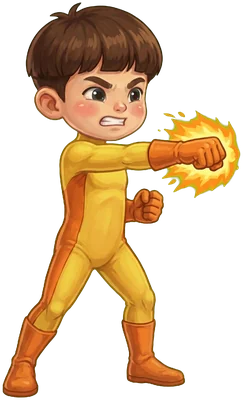
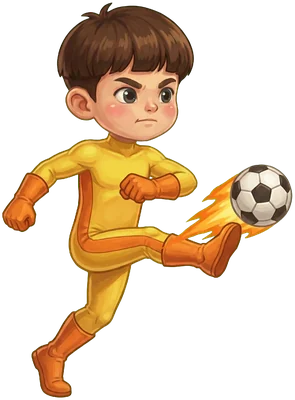
Make Yunchan the bug collector and Yungeon the soccer player
The family corrected the cousins' hobbies: Yunchan (10) collects bugs and
Yungeon (7) plays soccer.

Cards: Yunchan becomes a wood card with an insect-guide trait (ignores
weakness) and net swing, firefly light and rhinoceros-beetle charge.
Yungeon becomes a fire card with goalkeeper gloves (blocks the first
hit) and a feint dribble, header and fire shot. The card art and all ten
quiz questions were redrawn and rewritten; balance numbers and effects
are unchanged. Element and sound-material test counts follow the swap.

Multiverse: new attack poses (Yunchan swings a glowing bug net, Yungeon
volleys a fiery ball) with their anchors. The two replaced sprites load
with ?v=2 so devices do not keep the old ones in the long-lived media
cache. Cache v148.

diff --git a/cards/js/story-gates.js b/cards/js/story-gates.js
@@ -816,41 +816,40 @@
       "윤찬이는 몇 살인가요?",
       [["ten", "열 살"], ["seven", "일곱 살"], ["five", "다섯 살"]], "ten",
       ["가족 확인 2026-09-24"]),
-    question("yunchan-sport", "yunchan",
-      "윤찬 카드에서 윤찬이가 하고 있는 운동은?",
-      [["soccer", "축구"], ["swim", "수영"], ["taekwondo", "태권도"]], "soccer",
-      ["카드: 윤찬"]),
-    question("yunchan-pass", "yunchan",
-      "윤찬이의 「헤딩 패스」를 쓰면 무엇을 돌려받나요?",
+    question("yunchan-hobby", "yunchan",
+      "윤찬이가 제일 좋아하는 놀이는?",
+      [["bugs", "벌레 채집"], ["soccer", "축구"], ["piano", "피아노"]], "bugs",
+      ["가족 확인 2026-09-24"]),
+    question("yunchan-light", "yunchan",
+      "윤찬이의 「반딧불이 불빛」을 쓰면 무엇을 돌려받나요?",
       [["star", "별사탕 1개"], ["hp", "체력 20"], ["turn", "한 턴 더"]], "star",
       ["카드: 윤찬"]),
-    question("yunchan-captain", "yunchan",
-      "윤찬이의 특성 「주장 완장」은 무엇을 하나요?",
+    question("yunchan-book", "yunchan",
+      "윤찬이의 특성 「곤충 도감」은 무엇을 하나요?",
       [["noweak", "약점 추가 피해를 받지 않아요"], ["heal", "매턴 체력을 채워요"], ["double", "피해가 두 배가 돼요"]], "noweak",
       ["카드: 윤찬"]),
     question("yunchan-big-move", "yunchan",
       "윤찬이가 별사탕 3개로 쓰는 큰 기술은?",
-      [["shot", "번개 슛"], ["dribble", "번개 드리블"], ["header", "헤딩 패스"]], "shot",
+      [["beetle", "장수풍뎅이 돌진"], ["net", "잠자리채 휙"], ["firefly", "반딧불이 불빛"]], "beetle",
       ["카드: 윤찬"]),
     question("yungeon-age", "yungeon",
       "윤건이는 몇 살인가요?",
       [["seven", "일곱 살"], ["ten", "열 살"], ["five", "다섯 살"]], "seven",
       ["가족 확인 2026-09-24"]),
-    question("yungeon-friend", "yungeon",
-      "윤건 카드에서 윤건이가 동굴에서 찾은 친구는?",
-      [["dino", "아기 공룡"], ["cat", "아기 고양이"], ["dragon", "용"]], "dino",
-      ["카드: 윤건"]),
-    question("yungeon-flash", "yungeon",
-      "윤건이의 「손전등 번쩍」을 맞으면 상대는 어떻게 되나요?",
+    question("yungeon-sport", "yungeon",
+      "윤건 카드에서 윤건이가 하는 운동은?",
+      [["soccer", "축구"], ["swim", "수영"], ["bugs", "벌레 채집"]], "soccer",
+      ["가족 확인 2026-09-24"]),
+    question("yungeon-dribble", "yungeon",
+      "윤건이의 「헛다리 드리블」에 속은 상대는 어떻게 되나요?",
       [["weak", "다음 공격 피해가 20 줄어요"], ["sleep", "잠이 들어요"], ["star", "별사탕을 잃어요"]], "weak",
       ["카드: 윤건"]),
-    question("yungeon-egg", "yungeon",
-      "윤건이의 특성 「공룡 알 방패」는 무엇을 막나요?",
+    question("yungeon-gloves", "yungeon",
+      "윤건이의 특성 「골키퍼 장갑」은 무엇을 막나요?",
       [["first", "처음 받는 공격 한 번"], ["all", "모든 공격"], ["none", "아무것도 못 막아요"]], "first",
       ["카드: 윤건"]),
-
-    question("yungeon-roar", "yungeon",
-      "윤건이의 「티라노 으르렁」을 맞은 상대는 어떻게 되나요?",
+    question("yungeon-fire-shot", "yungeon",
+      "윤건이의 「불꽃 슛」을 맞은 상대는 어떻게 되나요?",
       [["skip", "다음 턴에 기술을 못 써요"], ["heal", "체력이 늘어요"], ["fast", "더 빨라져요"]], "skip",
       ["카드: 윤건"]),
 

diff --git a/multiverse/data.js b/multiverse/data.js
@@ -35,7 +35,7 @@
       poses: {
         idle:    { src: "art/yunchan-idle.webp",    head: [0.550, 0.250], chest: [0.500, 0.430], back: [0.200, 0.370], hand: [0.890, 0.330] },
         run:     { src: "art/yunchan-run.webp",     head: [0.640, 0.250], chest: [0.500, 0.430], back: [0.130, 0.360], hand: [0.920, 0.375] },
-        attack:  { src: "art/yunchan-attack.webp",  head: [0.390, 0.250], chest: [0.350, 0.430], back: [0.150, 0.360], hand: [0.820, 0.360] },
+        attack:  { src: "art/yunchan-attack.webp?v=2",  head: [0.460, 0.250], chest: [0.450, 0.440], back: [0.290, 0.370], hand: [0.680, 0.400] },
         special: { src: "art/yunchan-special.webp", head: [0.500, 0.240], chest: [0.500, 0.460], back: [0.320, 0.370], hand: [0.890, 0.140] },
         hurt:    { src: "art/yunchan-hurt.webp",    head: [0.420, 0.230], chest: [0.480, 0.430], back: [0.220, 0.360], hand: [0.690, 0.150] }
       } },
@@ -51,7 +51,7 @@
       poses: {
         idle:    { src: "art/yungeon-idle.webp",    head: [0.540, 0.240], chest: [0.500, 0.460], back: [0.260, 0.380], hand: [0.890, 0.360] },
         run:     { src: "art/yungeon-run.webp",     head: [0.570, 0.230], chest: [0.500, 0.460], back: [0.210, 0.380], hand: [0.910, 0.420] },
-        attack:  { src: "art/yungeon-attack.webp",  head: [0.420, 0.230], chest: [0.340, 0.460], back: [0.160, 0.380], hand: [0.860, 0.360] },
+        attack:  { src: "art/yungeon-attack.webp?v=2",  head: [0.480, 0.310], chest: [0.340, 0.500], back: [0.160, 0.470], hand: [0.470, 0.460] },
         special: { src: "art/yungeon-special.webp", head: [0.500, 0.240], chest: [0.500, 0.480], back: [0.380, 0.400], hand: [0.870, 0.160] },
         hurt:    { src: "art/yungeon-hurt.webp",    head: [0.440, 0.240], chest: [0.490, 0.460], back: [0.220, 0.390], hand: [0.770, 0.200] }
       } },

diff --git a/sw.js b/sw.js
@@ -1,7 +1,7 @@
 "use strict";
 
 // Advance this generation whenever a shared shell or optional game's immutable assets change.
-const CACHE_VERSION = "v147";
+const CACHE_VERSION = "v148";
 const CACHE_PREFIX = "adventure-box-";
 // 큰 그림과 소리(삼국지 배경 200MB+, 저장한 이야기 오디오)는 배포 번호와 따로 둔다.
 // 배포마다 이 캐시를 버리면 기기가 236MB를 다시 받고, "여행 전에 이야기 저장"도 지워졌다.
@@ -24,7 +24,7 @@ const CORE_SHELL = [
   "./multiverse/",
   "./multiverse/index.html",
   "./multiverse/style.css?v=2",
-  "./multiverse/data.js?v=2",
+  "./multiverse/data.js?v=3",
   "./multiverse/save.js?v=2",
   "./multiverse/game.js?v=2",
   "./multiverse/art/cover.webp",
@@ -603,12 +603,12 @@ const PRINCESS_STUDIO_ASSETS = Object.entries({
   `./princess/assets/studio-v3/${category}-${id}.${category === "bg" ? "jpg" : "webp"}`
 ));
 const OPTIONAL_SHELL = [
-  "./multiverse/art/yunchan-attack.webp",
+  "./multiverse/art/yunchan-attack.webp?v=2",
   "./multiverse/art/yunchan-hurt.webp",
   "./multiverse/art/yunchan-idle.webp",
   "./multiverse/art/yunchan-run.webp",
   "./multiverse/art/yunchan-special.webp",
-  "./multiverse/art/yungeon-attack.webp",
+  "./multiverse/art/yungeon-attack.webp?v=2",
   "./multiverse/art/yungeon-hurt.webp",
   "./multiverse/art/yungeon-idle.webp",
   "./multiverse/art/yungeon-run.webp",

diff --git a/cards/tests/pwa.test.js b/cards/tests/pwa.test.js
@@ -114,9 +114,9 @@ test("all story episode mp3 files match the service worker fallback list", () =>
   }
 });
 
-test("cache generation v147 preserves exact v68 card assets and canonical navigation aliases", () => {
-  assert.equal(sw.CACHE_VERSION, "v147");
-  assert.match(sw.STATIC_CACHE, /^adventure-box-v147-/);
+test("cache generation v148 preserves exact v68 card assets and canonical navigation aliases", () => {
+  assert.equal(sw.CACHE_VERSION, "v148");
+  assert.match(sw.STATIC_CACHE, /^adventure-box-v148-/);
   const studioImages = fs.readdirSync(path.join(siteRoot, "princess/assets/studio-v3")).filter(name => /\.(webp|jpg)$/.test(name));
   assert.equal(studioImages.length, 95);
   for (const name of studioImages) assert.ok(sw.OPTIONAL_SHELL.includes("./princess/assets/studio-v3/" + name), name);
@@ -407,7 +407,7 @@ test("Avengers migrates the legacy child scope before its bundle and tombstones 
 });
 
 test("big media and saved stories live in caches that survive a deploy", () => {
-  assert.match(sw.STATIC_CACHE, /^adventure-box-v147-static$/);
+  assert.match(sw.STATIC_CACHE, /^adventure-box-v148-static$/);
   assert.equal(sw.RUNTIME_CACHE, "adventure-box-media-" + sw.MEDIA_REVISION);
   assert.equal(sw.AUDIO_CACHE, "adventure-box-audio-" + sw.MEDIA_REVISION);
   assert.doesNotMatch(sw.RUNTIME_CACHE, /v\d+/, "the media cache name must not carry the deploy number");

diff --git a/cards/tests/hub-english-feedback.test.js b/cards/tests/hub-english-feedback.test.js
@@ -361,7 +361,7 @@ test("recognizer alternatives can pass; display uses the first guess; session sh
 
 test("the hub clears stale permanent silence and the worker precaches every clip", () => {
   const sw = require("../../sw.js"), html = fs.readFileSync(path.join(__dirname, "../../game/index.html"), "utf8");
-  assert.equal(sw.CACHE_VERSION, "v147");
+  assert.equal(sw.CACHE_VERSION, "v148");
   assert.ok(sw.CORE_SHELL.includes("./assets/study/english-reading.js?v=21"));
   assert.ok(sw.CORE_SHELL.includes("./assets/study/praise/perfect-v2.wav"));
   assert.match(html, /english-reading\.js\?v=21/);

diff --git a/cards/tests/elements.test.js b/cards/tests/elements.test.js
@@ -12,7 +12,7 @@ test("all 75 cards have exactly one valid element; all 25 element pairs use +10,
     assert.ok(E.ELEMENT_CHART[card.element], card.id);
     counts[card.element] = (counts[card.element] || 0) + 1;
   }
-  assert.deepEqual(counts, {fire:16,water:18,metal:17,wood:17,earth:18});
+  assert.deepEqual(counts, {fire:17,water:18,metal:16,wood:18,earth:17});
   const counters = {wood:"metal", fire:"water", earth:"wood", metal:"fire", water:"earth"};
   for (const a of Object.keys(counters)) for (const b of Object.keys(counters)) {
     const state = hit(make(a), make(b));

diff --git a/multiverse/tests/save.test.js b/multiverse/tests/save.test.js
@@ -65,7 +65,7 @@ test("모든 그림 파일이 있다", () => {
   Object.values(D.ENEMIES).forEach(e => files.push(e.src));
   Object.values(D.BOSSES).forEach(b => files.push(b.src));
   D.WORLDS.forEach(w => files.push(w.bg));
-  files.forEach(f => assert.ok(fs.existsSync(path.join(__dirname, "..", f)), f));
+  files.forEach(f => assert.ok(fs.existsSync(path.join(__dirname, "..", f.split("?")[0])), f));
 });
 
 test("사촌 넷 중 주인공과 동료를 고르고, 옛 저장도 새 아이 옷차림을 받는다", () => {

diff --git a/multiverse/index.html b/multiverse/index.html
@@ -111,7 +111,7 @@
 </section>
 
 <script src="../assets/bgm/bgm-player.js?v=66"></script>
-<script src="data.js?v=2"></script>
+<script src="data.js?v=3"></script>
 <script src="save.js?v=2"></script>
 <script src="game.js?v=2"></script>
 </body>
